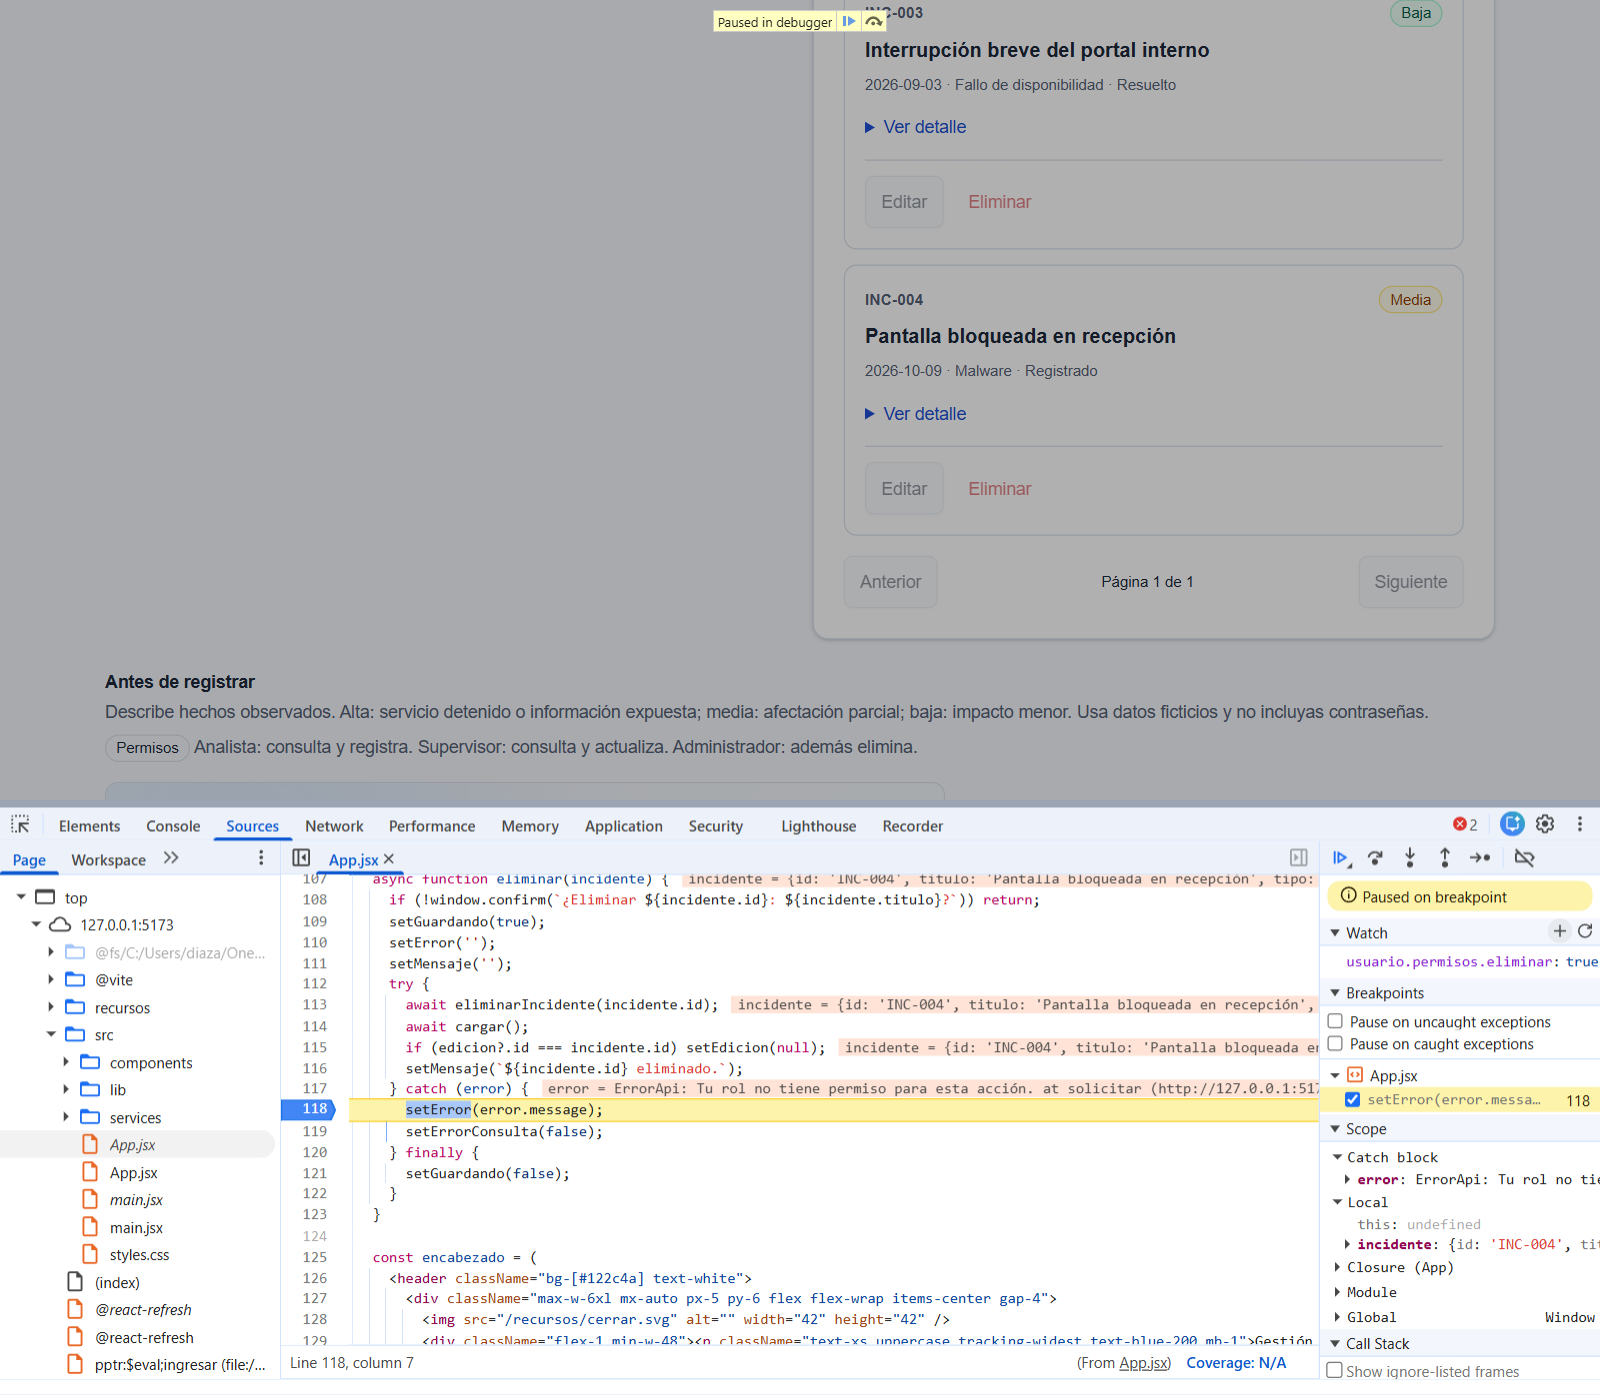
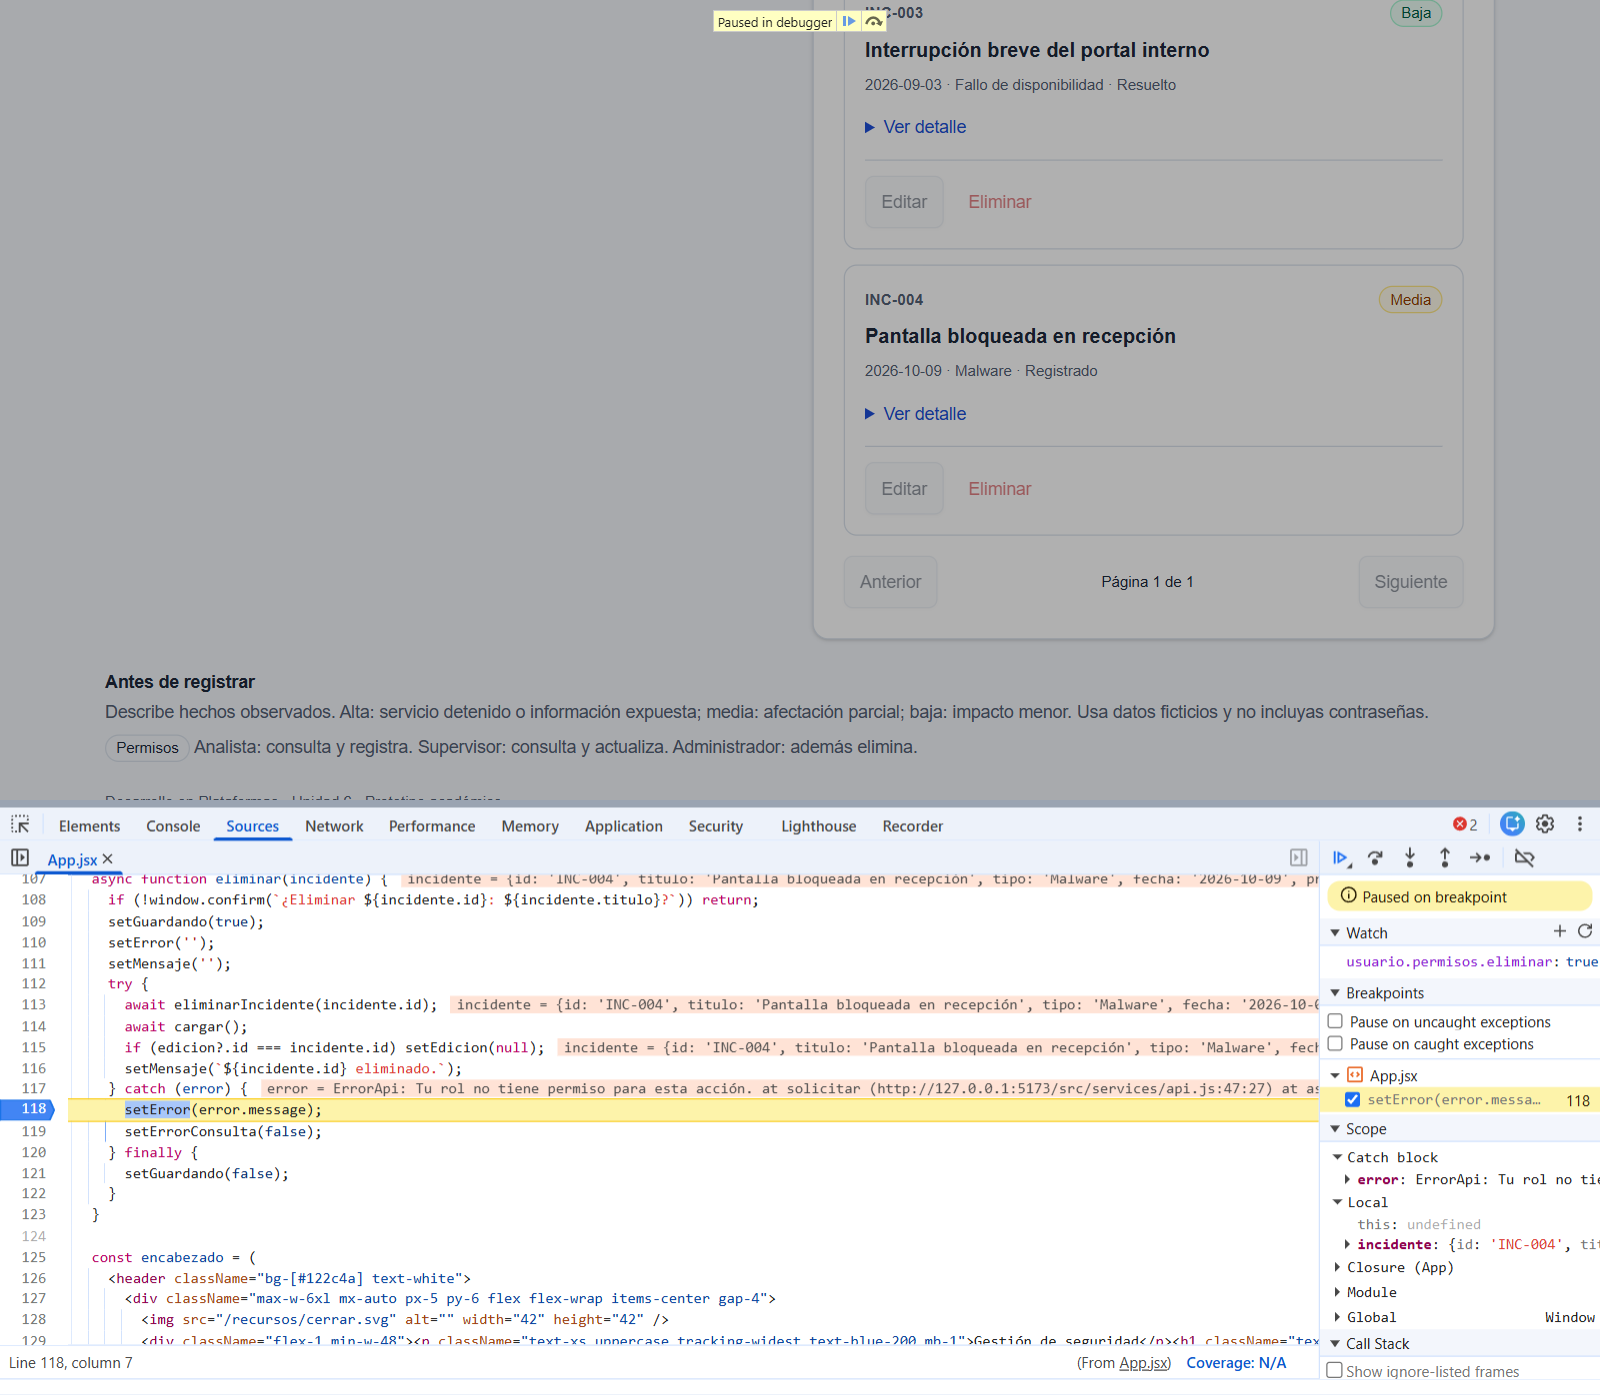
Feat: [PDP- 7] [Santiago Díaz] Update README and Unit 7 review

Changed region(s): [[0.0, 0.6165, 0.8125, 0.9864]]

diff --git a/README.md b/README.md
@@ -1,7 +1,5 @@
 # Incidentes — Tarea 7
 
-Plataforma para registrar y dar seguimiento a incidentes de ciberseguridad. React en el cliente, Express en la API y MySQL con Prisma.
-
 Requisitos: Node.js 22.12 o superior y Docker Desktop encendido.
 
 Primera vez, desde esta carpeta:
@@ -15,8 +13,6 @@ npm run db:migrar
 npm run db:ejemplos
 ```
 
-`npm run configurar` crea `.env` con las claves y `frontend/.env` con la URL de la API.
-
 Backend (primera terminal):
 
 ```bash
@@ -29,50 +25,21 @@ npm run dev:web
 ```
 
 Abre http://127.0.0.1:5173. También puedes iniciar ambos con `npm run dev`.
+Usuarios: admin, supervisor y analista `@incidentes.local`. Las claves están en `.env`.
 
-Usuarios de prueba: admin, supervisor y analista `@incidentes.local`. Las contraseñas están en `.env` (`CLAVE_ADMIN`, `CLAVE_SUPERVISOR`, `CLAVE_ANALISTA`).
+Pruebas y lint:
 
-## Pruebas y calidad
-
-- `npm test`: pruebas unitarias con Jest (reglas del negocio y servicio del cliente, sin base de datos).
-- `npm run test:coverage`: lo mismo con el reporte de cobertura en `coverage/`.
-- `npm run test:api`: pruebas de integración contra otra base MySQL (puerto 3308).
-- `npm run casos`: casos de seguridad de la Unidad 6.
-- `npm run lint`: ESLint.
-- `npm run medir -- consulta antes` (o `red`, `imagen`; `antes` o `despues`): mediciones con 50 000 incidentes en la base de pruebas.
-
-Antes de entregar corre `npm run lint`, `npm test` y `npm run test:api`.
-
-## Estructura
-
-```
-backend/
-  routes/        rutas y permisos de cada operación
-  controllers/   solo HTTP: leen la solicitud y responden
-  services/      reglas del negocio (filtros, paginación, códigos INC)
-  models/        consultas con Prisma
-  middleware/    autenticación, validación, límites y errores
-  validaciones/  esquemas de zod
-  utils/         token, códigos INC y errores
-  tests/         unit/ (Jest) y api.test.js (integración)
-frontend/src/    App, componentes y services/api.js
-prisma/          esquema, migraciones y datos de ejemplo
-scripts/         configurar, pruebas, casos, mediciones e imagen
-evidencias/      capturas y reportes de cada unidad
+```bash
+npm test
+npm run test:api
+npm run lint
 ```
 
-## Variables de entorno
+`npm test` corre las pruebas unitarias y `npm run test:api` las de integración (usa otra base, en el puerto 3308). Cobertura: `npm run test:coverage`. Casos de seguridad: `npm run casos`.
 
-- `.env` (servidor): `DATABASE_URL`, `DATABASE_URL_PRUEBAS`, `MYSQL_PASSWORD`, `MYSQL_ROOT_PASSWORD`, `PORT`, `JWT_SECRET`, `JWT_EXPIRES_IN`, `CLIENT_ORIGIN` y las claves de prueba. Opcionales: `LIMITE_POR_MINUTO`, `TRUST_PROXY`, `HTTPS_CERT`, `HTTPS_KEY`.
-- `frontend/.env` (cliente): solo `VITE_API_URL`.
+Mediciones: `npm run medir -- consulta antes` (también `red` o `imagen`, y `despues`).
 
-Los dos se crean con `npm run configurar`; `.env.example` y `frontend/.env.example` muestran los nombres.
-
-## Otros comandos
-
-Base: `npm run db:ver`. Imagen de ayuda: `npm run imagen` genera los WebP desde `recursos/originales`.
-
-HTTPS local (opcional): `npm run certificado` y agrega a `.env` `HTTPS_CERT=certificados/certificado.pem` y `HTTPS_KEY=certificados/clave.pem`. En producción la API va detrás de un proxy (Nginx o Caddy) con certificado de una autoridad, que redirige HTTP a HTTPS; ahí se usa `TRUST_PROXY=1`.
+Backend: routes → controllers → services → models.
 
 Para volver a trabajar: `npm run db:iniciar` y `npm run dev`.
 Para detener MySQL: `docker compose stop mysql`. El volumen conserva los datos.

diff --git a/agents/revision-unidad-7.md b/agents/revision-unidad-7.md
@@ -20,6 +20,12 @@ Revisión del 13 de octubre de 2026 con el agente auditor (Claude Code) aplicand
 
 Las tres pruebas fallaron antes de la corrección (4 casos en rojo) y pasaron después.
 
+Pasos para reproducir (datos de `npm run db:ejemplos`, DevTools abierto en Network):
+
+1. Iniciar sesión como analista y registrar un incidente con el título "Correo que suplanta a soporte técnico", que ya existe. Esperado: el campo Título marcado. Obtenido: 409 con solo `error` y ningún campo marcado.
+2. Iniciar sesión como administrador, cambiar su rol a `ANALISTA` en la base (`npm run db:ver`) y pulsar Eliminar en INC-004. Esperado: la vista se ajusta al rol nuevo. Obtenido: 403 y el botón sigue visible. En Sources, breakpoint en el `catch` de `eliminar` (App.jsx:118) y Watch `usuario.permisos.eliminar`.
+3. Iniciar sesión como analista, llenar el formulario y reemplazar el token de `sessionStorage` por uno vencido (firmado con la misma clave, para no esperar 30 minutos). Enviar y volver a iniciar sesión. Esperado: recuperar lo escrito. Obtenido: 401 y el formulario vacío.
+
 ## Otros hallazgos
 
 - ESLint: parámetro `next` sin usar, dependencia faltante en un `useEffect`, seis `import React` innecesarios, una variable de `catch` sin usar y una desestructuración para quitar `id` (se justificó `ignoreRestSiblings`). Resultado: 0 problemas en 52 archivos.
